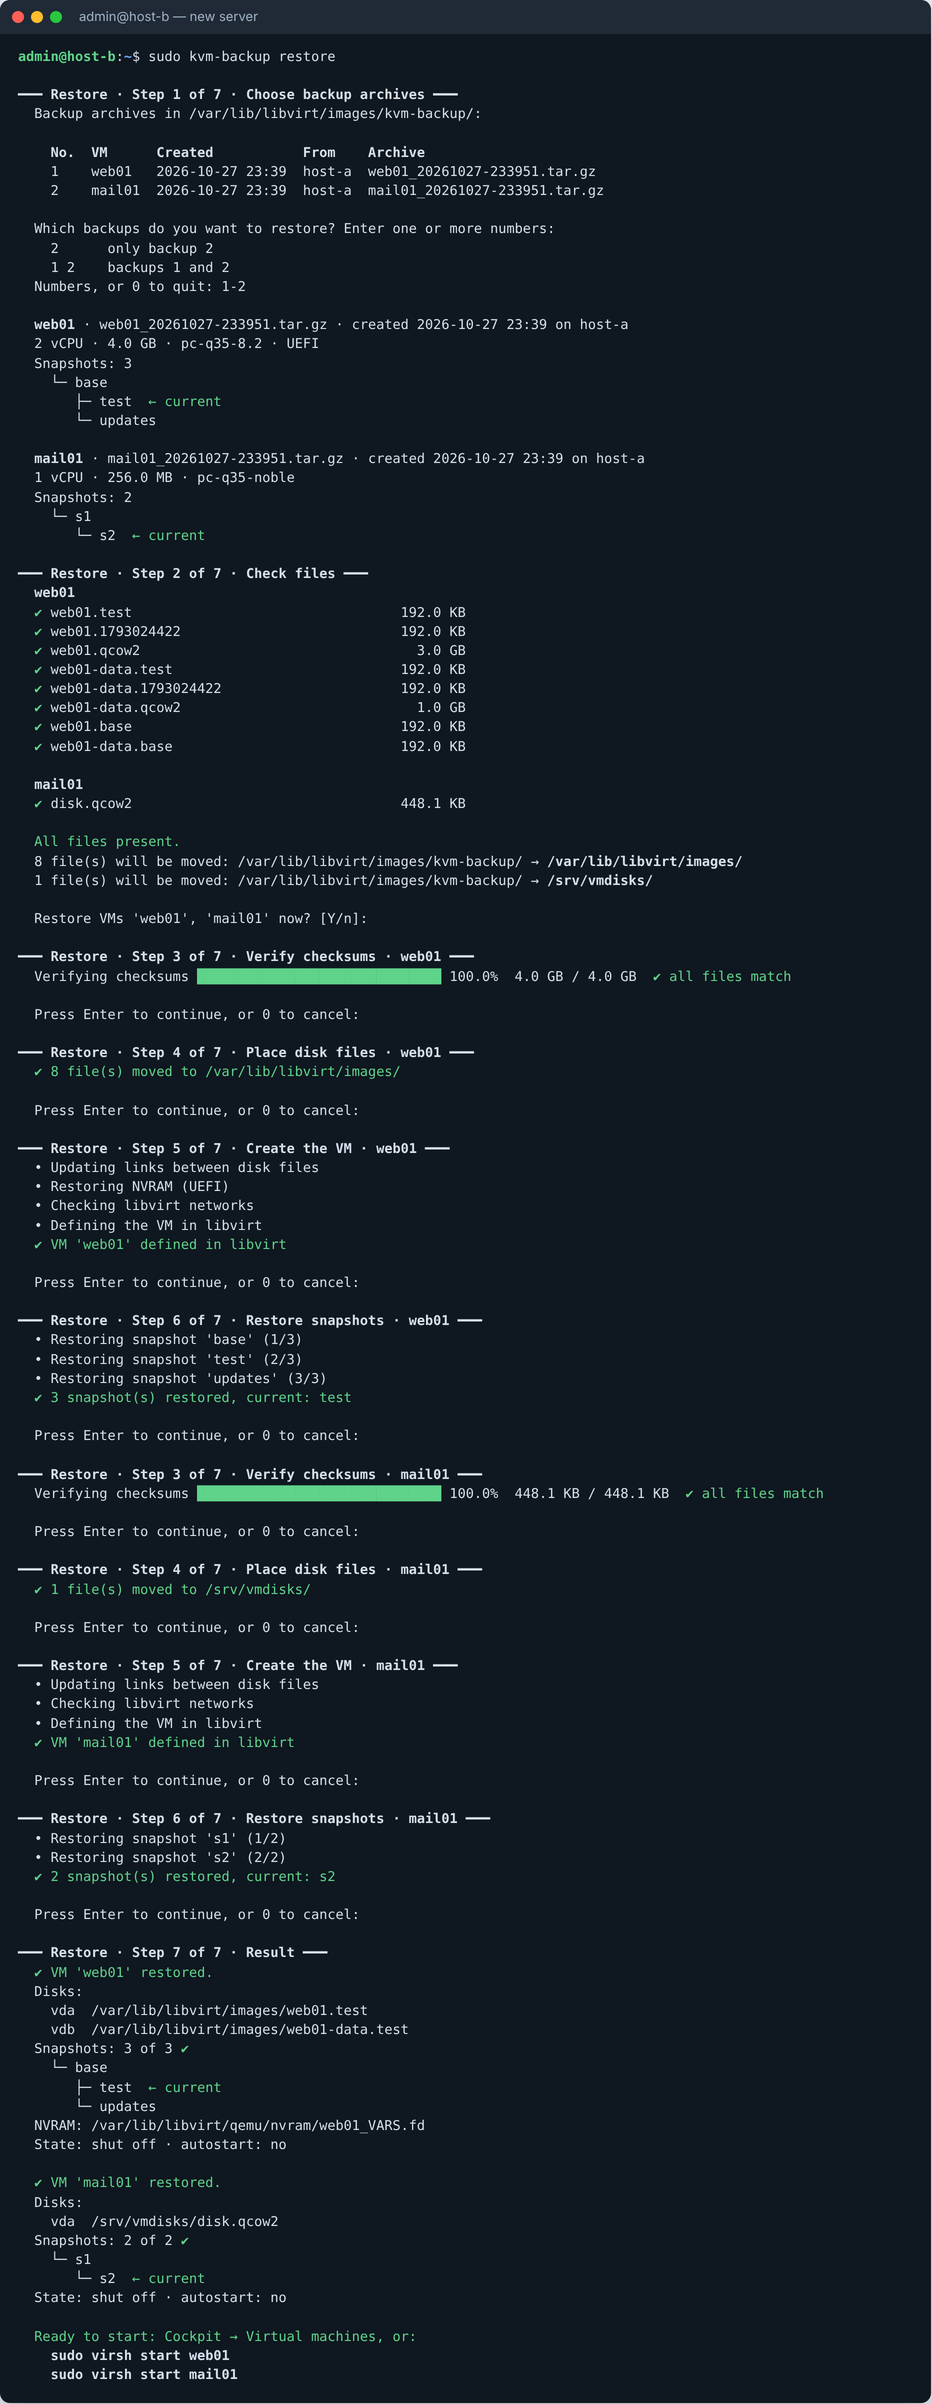
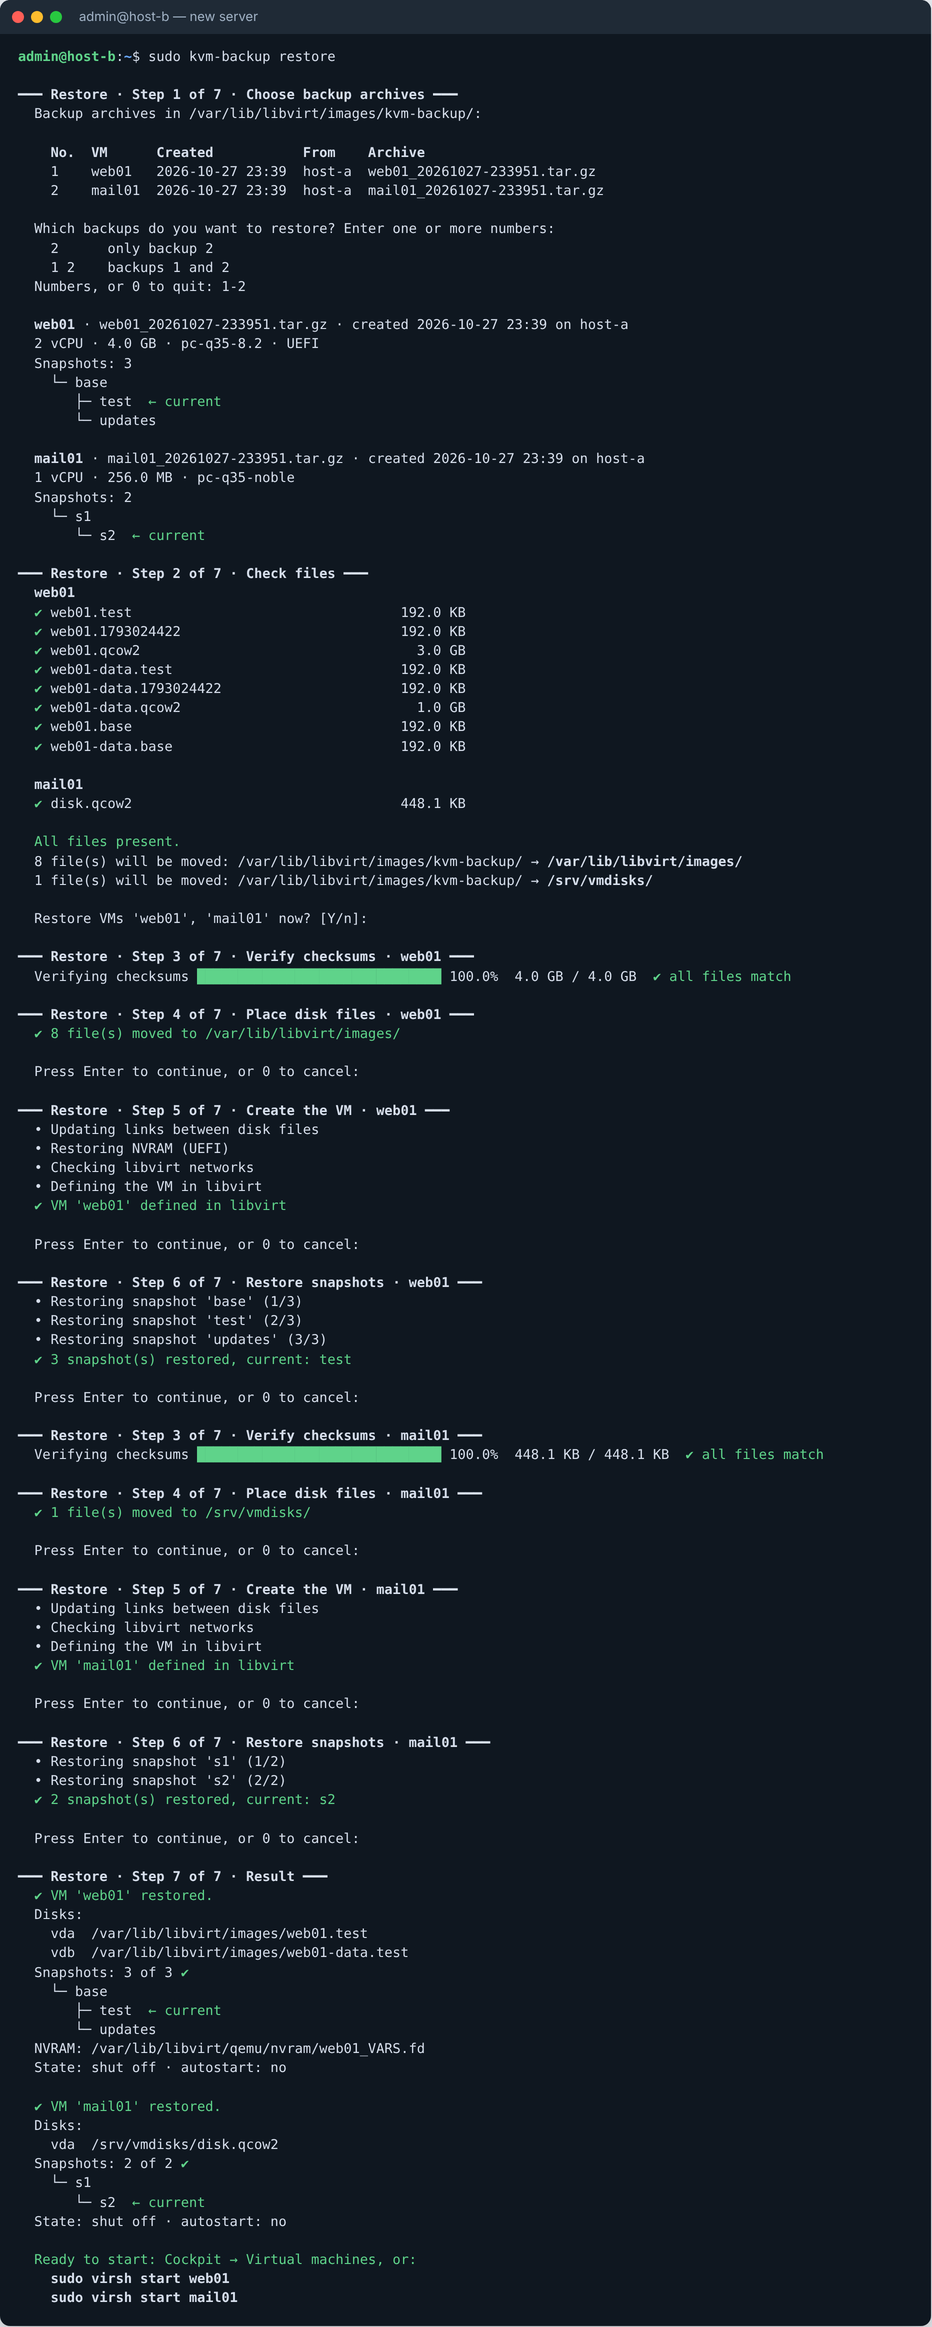
Restore: continue without asking after a successful checksum check
A mismatch still stops the restore before anything is changed.

Claude-Session: https://claude.ai/code/session_01B6oZBxwDXgi735Z33Mo7zh

diff --git a/kvmbackup/restore.py b/kvmbackup/restore.py
@@ -239,6 +239,7 @@ def run_restore(job, m, bdir, p, opts):
     try:
         # 1. Checksums
         _phase(job, 3, "Verify checksums")
+        verified = False
         if not opts.get("verify", True) or not any(mf[f["name"]].get("sha256") for f in files):
             job.log("⚠ Checksums are not verified (skipped or not stored in the archive).")
         if opts.get("verify", True):
@@ -256,9 +257,11 @@ def run_restore(job, m, bdir, p, opts):
                                        f"  Copy the file again from the old server and run: sudo kvm-backup restore")
                 if hasattr(prog, "finish"):
                     prog.finish("all files match")
+                verified = True
 
         # 2. Place files
-        _phase(job, 4, "Place disk files")
+        # A successful check goes straight on; a mismatch has already stopped the restore above
+        _phase(job, 4, "Place disk files", ask_first=not verified)
         path_map = {}
         placed = {}
         copy_total = sum(f["size"] for f in files if f["action"] == "copy")
@@ -445,10 +448,10 @@ def run_restore(job, m, bdir, p, opts):
                   "current": m.get("current_snapshot"), "nvram": ctx.get("nvram"), "warnings": warns}
 
 
-def _phase(job, n, title):
+def _phase(job, n, title, ask_first=True):
     """Start a numbered restore step (the terminal UI may ask to continue first)."""
     if hasattr(job, "phase"):
-        job.phase(n, title)
+        job.phase(n, title, ask_first)
     else:
         job.step(title)
 

diff --git a/kvmbackup/cli.py b/kvmbackup/cli.py
@@ -104,9 +104,10 @@ class TermJob:
         self.label = ""
         self._started = False
 
-    def phase(self, n, title):
-        """Numbered step; from the second one on, wait for Enter before starting it."""
-        if self._started and self.confirm and not pause():
+    def phase(self, n, title, ask_first=True):
+        """Numbered step; from the second one on, wait for Enter before starting it
+        (unless ask_first is False, e.g. right after a successful checksum check)."""
+        if self._started and self.confirm and ask_first and not pause():
             raise JobError("Cancelled. All changes made by this restore were rolled back.")
         self._started = True
         step(self.mode, n, self.total, f"{title} · {self.label}" if self.label else title)

diff --git a/README.md b/README.md
@@ -50,7 +50,7 @@ Each step shows its result; the next one starts after you confirm with Enter. En
 
 1. **Choose backup archives** from `/var/lib/libvirt/images/kvm-backup/`: one or several (one per VM), the same way as on the old server. The tool waits if nothing has been copied yet.
 2. **Check files.** Every file listed in the archive is checked for presence and size; missing files are listed and the check can be repeated after copying them.
-3. **Verify checksums.**
+3. **Verify checksums.** If all files match, the restore goes on to step 4 without asking; on a mismatch it stops before anything is changed.
 4. **Place disk files** at their original paths.
 5. **Create the VM** in libvirt (links between disk files, NVRAM, networks, storage pool).
 6. **Restore snapshots**, including branches and the current snapshot.
